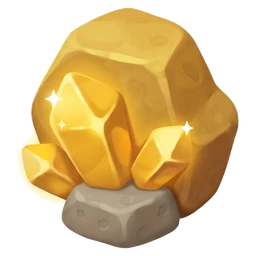
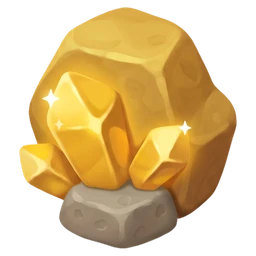
金礦石：去掉左下角殘留的光暈白邊（圖外圍淡黃光暈一起去除、邊緣往內收 2px）
Claude-Session: https://claude.ai/code/session_01W9KMAgp1CRKeHuYohfaeHn

diff --git a/sw.js b/sw.js
@@ -1,5 +1,5 @@
 /* 親子集點 Service Worker：離線可用。資料存在 localStorage，不受快取影響。 */
-var CACHE = 'cgp-shell-v96';
+var CACHE = 'cgp-shell-v97';
 var SHELL = [
   './', 'index.html', 'css/style.css', 'js/store.js', 'js/rules-csv.js', 'js/report.js', 'js/board-gold.js', 'js/board-gold-02.js', 'js/board-gold-03.js', 'js/board-gold-04.js', 'js/game.js', 'js/art.js', 'js/app.js',
   'manifest.webmanifest', 'images/gold-island.webp', 'images/gold/region01.webp', 'images/gold/region02.webp', 'images/gold/region03.webp', 'images/gold/region04.webp', 'images/gold/tower_off.webp', 'images/gold/tower_on.webp', 'images/gold/technician.webp', 'images/gold/stone.webp', 'images/gold/ore.webp', 'images/mascot.webp', 'images/float-castle.webp', 'images/chest.webp',

diff --git a/js/app.js b/js/app.js
@@ -4,7 +4,7 @@
 
   var CGP = window.CGP;
   /** 每次發布更新時修改，方便在「設定 → 備份」確認手機上是不是新版 */
-  var APP_VERSION = '2026.11.08-86';
+  var APP_VERSION = '2026.11.08-87';
   var store;
   try {
     store = new CGP.Store();

diff --git a/docs/HANDOFF.md b/docs/HANDOFF.md
@@ -1,6 +1,6 @@
 # 親子集點冒險 App：交接文件
 
-> 最後更新：2026-11-08｜App 版本 `2026.11.08-86`｜Service Worker 快取 `cgp-shell-v96`｜`main` 最新：金礦石換正式圖
+> 最後更新：2026-11-08｜App 版本 `2026.11.08-87`｜Service Worker 快取 `cgp-shell-v97`｜`main` 最新：金礦石去掉左下角白邊
 > 給接手的開發者（或下一個 Claude session）。**新對話請先讀第 0、1 節**，再依需要查後面各節與 `PROJECT_SPEC.md`。
 
 ---
@@ -14,7 +14,7 @@
 - 小遊戲試玩網址：https://dollyswim.github.io/Child-good-point/#minigame-test（抓住星星）、https://dollyswim.github.io/Child-good-point/#leaf-test（木島落葉找松果）
 
 ### 每次修改的固定流程
-1. 改圖片或 JS／CSS：新檔加入 `sw.js` 的 `SHELL`，**升 `sw.js` 的 `CACHE`**（目前 `cgp-shell-v96`）與 **`js/app.js` 的 `APP_VERSION`**（目前 `2026.11.08-86`，格式 `日期-流水號`），並更新本文件第 1 行與 `docs/ACCEPTANCE_CHECKLIST.md` 的版本號。
+1. 改圖片或 JS／CSS：新檔加入 `sw.js` 的 `SHELL`，**升 `sw.js` 的 `CACHE`**（目前 `cgp-shell-v97`）與 **`js/app.js` 的 `APP_VERSION`**（目前 `2026.11.08-87`，格式 `日期-流水號`），並更新本文件第 1 行與 `docs/ACCEPTANCE_CHECKLIST.md` 的版本號。
 2. 測試：`npm test`（單元，約 1 秒，目前 132 項）、`npm run test:e2e`（Playwright 手機尺寸，**約 3～4 分鐘**，建議放背景跑）。兩者都通過才算完成。
 3. 提交訊息用繁體中文；推送 `git push origin main`。
 4. 用繁體中文回報：修改檔案、新增功能、測試結果、已知問題、下一步。

diff --git a/docs/ACCEPTANCE_CHECKLIST.md b/docs/ACCEPTANCE_CHECKLIST.md
@@ -1,11 +1,11 @@
 # 手機實機驗收清單
 
-> 版本 `2026.11.08-86`｜2026-11-07 更新｜在 Android 手機上照順序勾選。
+> 版本 `2026.11.08-87`｜2026-11-07 更新｜在 Android 手機上照順序勾選。
 > 自動測試（模擬手機 360／390／430px）已全部通過；這份清單是確認**真的手機、安裝到主畫面的 App** 也正常。
 
 ## 0. 開始前（一定要做）
 - [ ] ⚙ 設定 → 備份 → **匯出 JSON**，先把現在的資料存一份
-- [ ] 設定 → 備份 → App 版本顯示 `2026.11.08-86`（不是的話：關掉 App 再開一次；還不是就到瀏覽器重新整理）
+- [ ] 設定 → 備份 → App 版本顯示 `2026.11.08-87`（不是的話：關掉 App 再開一次；還不是就到瀏覽器重新整理）
 - [ ] 小孩頁面右上角（設定城堡下方）→「新增孩子」→ 新增一位「測試」孩子，下面的冒險測試都用他，不影響真的孩子
 
 ## 1. 基本功能
